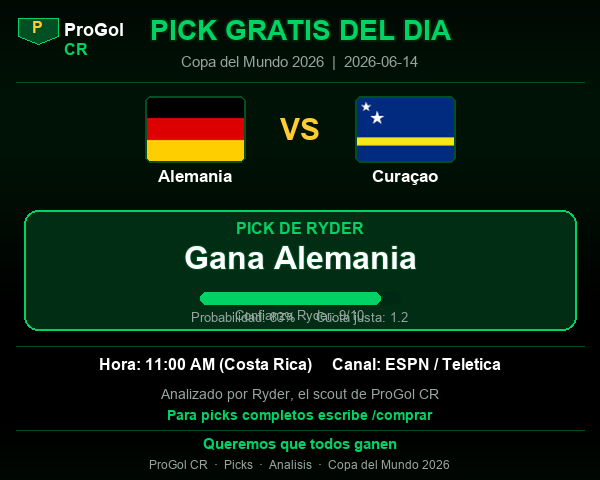
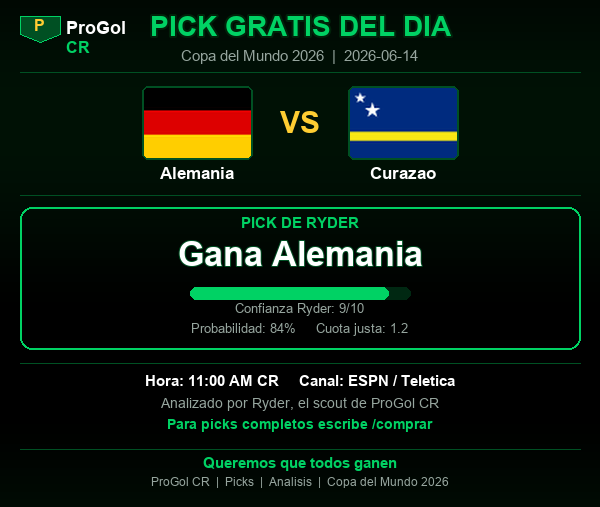
fix: layout con cursor y incremental, elimina texto superpuesto en pick image

diff --git a/scripts/gen_pick_img.py b/scripts/gen_pick_img.py
@@ -9,102 +9,149 @@ OUT  = os.path.join(ROOT, "brand", "pick_gratis.png")
 
 from PIL import Image, ImageDraw
 from img_utils import (BG, GREEN, GOLD, WHITE, GRAY, DKGREEN,
-                       font, emoji_font, paste_flag, draw_progol_logo, draw_footer)
+                       font, paste_flag, draw_progol_logo, draw_footer)
 
-CHANNELS = {
-    "FIFA World Cup": "ESPN / Teletica",
-    "UEFA Champions": "ESPN",
-    "default":        "ESPN / Fox Sports",
-}
+W = 600
 
 def generar(home_es, away_es, pick_text, prob_pct, conf, fair,
             hora_cr, canal, home_badge_url, away_badge_url, today,
             home_name="", away_name=""):
 
-    W, H = 600, 480
+    PAD   = 20
+    FLAG_W, FLAG_H = 110, 73
+
+    # ── Calcular altura total antes de crear la imagen ──
+    H = (
+        16           # margen top
+        + 34         # titulo "PICK GRATIS DEL DIA"
+        + 8          # gap
+        + 18         # subtitulo fecha
+        + 14         # gap + linea
+        + FLAG_H     # banderas
+        + 8          # gap
+        + 22         # nombres equipos
+        + 16         # gap
+        + 18         # label "PICK DE RYDER"
+        + 10         # gap
+        + 40         # texto pick grande
+        + 14         # gap
+        + 12         # barra confianza
+        + 6          # gap
+        + 16         # texto confianza
+        + 10         # gap
+        + 16         # probabilidad + cuota
+        + 16         # gap + linea
+        + (20 if hora_cr else 0)  # hora y canal
+        + 8
+        + 16         # "Analizado por Ryder"
+        + 8
+        + 18         # "/comprar"
+        + 54         # footer
+        + 16         # margen bottom
+    )
+
     img  = Image.new("RGB", (W, H), BG)
     draw = ImageDraw.Draw(img)
 
-    # Fondo gradiente sutil
+    # Fondo gradiente
     for y in range(H):
         s = int(8 + 10 * math.sin(y * 0.013))
         draw.line([(0, y), (W, y)], fill=(0, s, s//3))
 
+    y = 16  # cursor
+
     # ── Header ──
-    draw_progol_logo(draw, 18, 18)
-    draw.text((W//2, 20), "PICK GRATIS DEL DIA", fill=GREEN,
-              font=font(28, True), anchor="mt", stroke_width=2, stroke_fill=(0,35,10))
-    draw.text((W//2, 56), f"Copa del Mundo 2026  |  {today}",
+    draw_progol_logo(draw, PAD, y)
+    draw.text((W//2, y), "PICK GRATIS DEL DIA",
+              fill=GREEN, font=font(28, True), anchor="mt",
+              stroke_width=2, stroke_fill=(0,35,10))
+    y += 34
+
+    draw.text((W//2, y), f"Copa del Mundo 2026  |  {today}",
               fill=GRAY, font=font(15), anchor="mt")
-    draw.line([(16, 82), (W-16, 82)], fill=DKGREEN, width=1)
+    y += 22
 
-    # ── Banderas + nombres ──
-    FLAG_W, FLAG_H = 100, 66
-    flag_y = 96
+    draw.line([(PAD, y), (W-PAD, y)], fill=DKGREEN, width=1)
+    y += 14
 
-    # Local — bandera izquierda
-    flag_x_h = W//2 - FLAG_W - 55
-    paste_flag(img, home_name or home_es, flag_x_h, flag_y, FLAG_W, FLAG_H)
-    draw.text((flag_x_h + FLAG_W//2, flag_y + FLAG_H + 8),
-              home_es, fill=WHITE, font=font(17, True), anchor="mt")
+    # ── Banderas ──
+    cx = W // 2
+    flag_x_h = cx - FLAG_W - 48
+    flag_x_a = cx + 48
 
-    # VS
-    draw.text((W//2, flag_y + FLAG_H//2), "VS",
-              fill=GOLD, font=font(30, True), anchor="mm")
+    paste_flag(img, home_name or home_es, flag_x_h, y, FLAG_W, FLAG_H)
+    draw.text((cx, y + FLAG_H//2), "VS", fill=GOLD, font=font(30, True), anchor="mm")
+    paste_flag(img, away_name or away_es, flag_x_a, y, FLAG_W, FLAG_H)
+    y += FLAG_H + 8
 
-    # Visitante — bandera derecha
-    flag_x_a = W//2 + 55
-    paste_flag(img, away_name or away_es, flag_x_a, flag_y, FLAG_W, FLAG_H)
-    draw.text((flag_x_a + FLAG_W//2, flag_y + FLAG_H + 8),
-              away_es, fill=WHITE, font=font(17, True), anchor="mt")
+    # ── Nombres ──
+    draw.text((flag_x_h + FLAG_W//2, y), home_es,
+              fill=WHITE, font=font(17, True), anchor="mt")
+    draw.text((flag_x_a + FLAG_W//2, y), away_es,
+              fill=WHITE, font=font(17, True), anchor="mt")
+    y += 28
 
-    # ── Caja pick ──
-    bx, by, bw, bh = 24, 210, W-48, 120
-    draw.rounded_rectangle([bx, by, bx+bw, by+bh], radius=14,
-                           fill=(0, 45, 20), outline=GREEN, width=2)
+    # ── Separador antes del pick ──
+    draw.line([(PAD, y), (W-PAD, y)], fill=DKGREEN, width=1)
+    y += 12
 
-    draw.text((W//2, by+12), "PICK DE RYDER", fill=GREEN,
-              font=font(16, True), anchor="mt")
+    # ── Caja pick (dibujada después de saber el alto del contenido) ──
+    box_top = y
+    y += 10
 
-    draw.text((W//2, by+36), pick_text, fill=WHITE,
-              font=font(32, True), anchor="mt", stroke_width=1, stroke_fill=DKGREEN)
+    draw.text((cx, y), "PICK DE RYDER", fill=GREEN, font=font(15, True), anchor="mt")
+    y += 24
 
-    # Stars sin emoji — barras de confianza
-    bar_w_total = 200
-    bar_filled  = int(bar_w_total * conf / 10)
-    bbar_x = W//2 - bar_w_total//2
-    bbar_y = by + 82
-    draw.rounded_rectangle([bbar_x, bbar_y, bbar_x+bar_w_total, bbar_y+12],
-                           radius=6, fill=(0,40,18))
+    draw.text((cx, y), pick_text, fill=WHITE,
+              font=font(34, True), anchor="mt", stroke_width=1, stroke_fill=DKGREEN)
+    y += 46
+
+    # Barra de confianza
+    bar_total = 220
+    bar_filled = int(bar_total * conf / 10)
+    bx = cx - bar_total//2
+    draw.rounded_rectangle([bx, y, bx+bar_total, y+12], radius=6, fill=(0,40,18))
     if bar_filled > 0:
-        draw.rounded_rectangle([bbar_x, bbar_y, bbar_x+bar_filled, bbar_y+12],
-                               radius=6, fill=GREEN)
-    draw.text((W//2, bbar_y+18), f"Confianza Ryder: {conf}/10",
+        draw.rounded_rectangle([bx, y, bx+bar_filled, y+12], radius=6, fill=GREEN)
+    y += 16
+
+    draw.text((cx, y), f"Confianza Ryder: {conf}/10",
               fill=GRAY, font=font(13), anchor="mt")
+    y += 20
 
-    # Stats
-    draw.text((W//2, by+102),
-              f"Probabilidad: {prob_pct}%     Cuota justa: {fair}",
+    draw.text((cx, y), f"Probabilidad: {prob_pct}%     Cuota justa: {fair}",
               fill=GRAY, font=font(13), anchor="mt")
+    y += 16
 
-    # ── Info hora y canal ──
-    draw.line([(16, 346), (W-16, 346)], fill=DKGREEN, width=1)
+    box_bottom = y + 10
+    draw.rounded_rectangle([PAD, box_top, W-PAD, box_bottom],
+                           radius=12, outline=GREEN, width=2)
+    y = box_bottom + 14
 
-    info_y = 358
+    # ── Hora y canal ──
+    draw.line([(PAD, y), (W-PAD, y)], fill=DKGREEN, width=1)
+    y += 12
+
     if hora_cr:
-        draw.text((W//2, info_y),
-                  f"Hora: {hora_cr} (Costa Rica)     Canal: {canal}",
-                  fill=WHITE, font=font(16, True), anchor="mt")
-        info_y += 30
+        draw.text((cx, y), f"Hora: {hora_cr} CR     Canal: {canal}",
+                  fill=WHITE, font=font(15, True), anchor="mt")
+        y += 22
 
-    draw.text((W//2, info_y),
-              "Analizado por Ryder, el scout de ProGol CR",
+    draw.text((cx, y), "Analizado por Ryder, el scout de ProGol CR",
               fill=GRAY, font=font(14), anchor="mt")
-    draw.text((W//2, info_y+22),
-              "Para picks completos escribe /comprar",
-              fill=GREEN, font=font(14, True), anchor="mt")
+    y += 22
 
-    draw_footer(draw, W, H)
+    draw.text((cx, y), "Para picks completos escribe /comprar",
+              fill=GREEN, font=font(14, True), anchor="mt")
+    y += 22
+
+    # ── Footer ──
+    draw.line([(PAD, y+8), (W-PAD, y+8)], fill=DKGREEN, width=1)
+    draw.text((cx, y+16), "Queremos que todos ganen",
+              fill=GREEN, font=font(15, True), anchor="mt")
+    draw.text((cx, y+36), "ProGol CR  |  Picks  |  Analisis  |  Copa del Mundo 2026",
+              fill=GRAY, font=font(12), anchor="mt")
+
     img.save(OUT, "PNG", optimize=True)
     return OUT
 